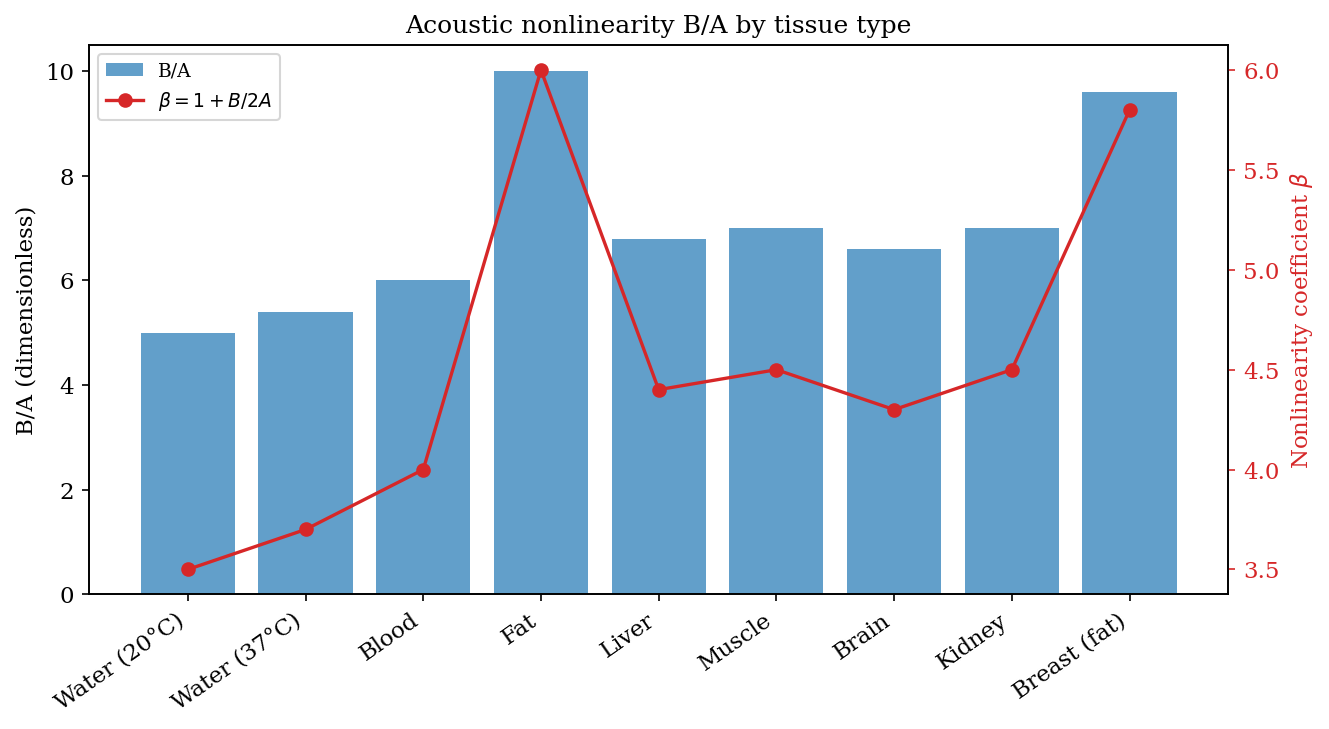
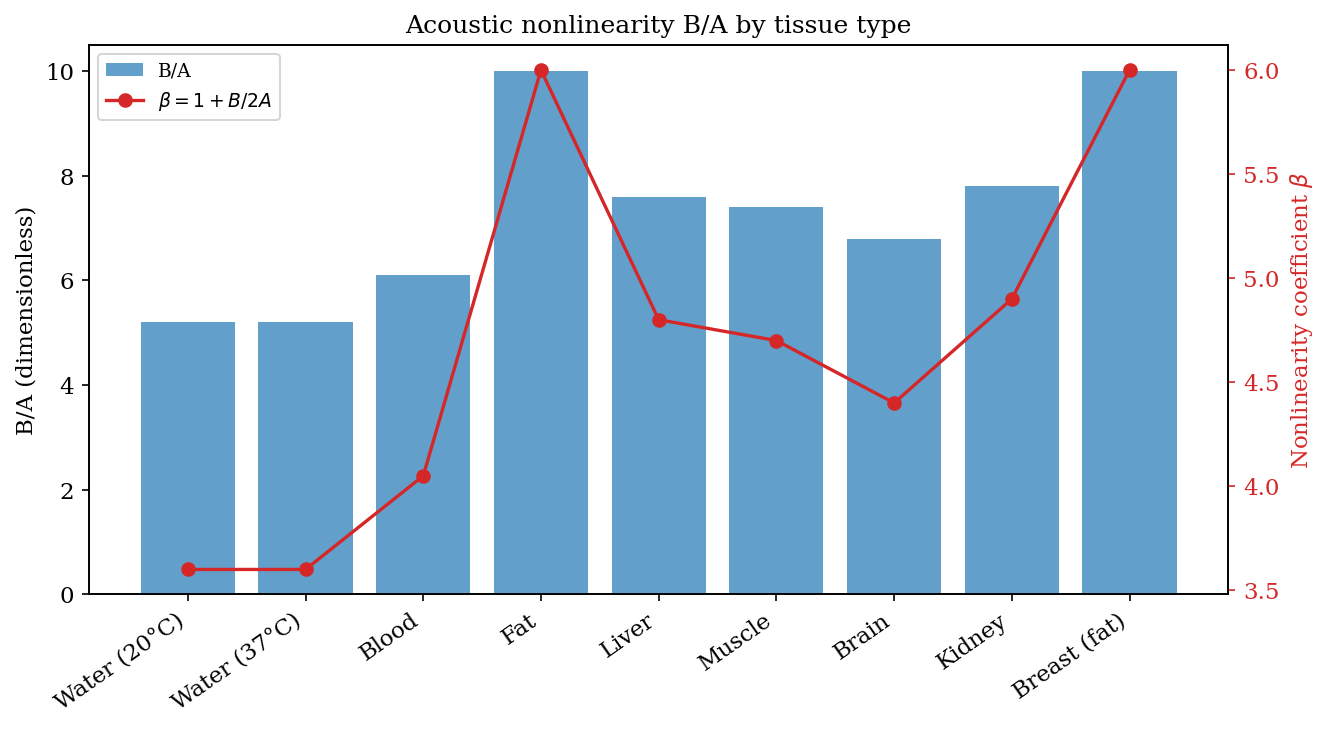
@ refactor(arch)!: extract kwavers-field from kwavers-domain
Numerical field definitions (component-index SSOT, field-type mapping,
operations/statistics, bubble/EM field states) become a standalone foundation
crate depending on kwavers-core/-grid. kwavers_domain::field::* ->
kwavers_field::* across the workspace. No re-export shim.

Step 4/12 of the kwavers-domain decomposition.

@

diff --git a/crates/kwavers-solver/src/forward/hybrid/mixed_domain.rs b/crates/kwavers-solver/src/forward/hybrid/mixed_domain.rs
@@ -232,12 +232,12 @@ impl kwavers_domain::plugin::Plugin for MixedDomainPropagationPlugin {
         self.state = state;
     }
 
-    fn required_fields(&self) -> Vec<kwavers_domain::field::mapping::UnifiedFieldType> {
-        vec![kwavers_domain::field::mapping::UnifiedFieldType::Pressure]
+    fn required_fields(&self) -> Vec<kwavers_field::mapping::UnifiedFieldType> {
+        vec![kwavers_field::mapping::UnifiedFieldType::Pressure]
     }
 
-    fn provided_fields(&self) -> Vec<kwavers_domain::field::mapping::UnifiedFieldType> {
-        vec![kwavers_domain::field::mapping::UnifiedFieldType::Pressure]
+    fn provided_fields(&self) -> Vec<kwavers_field::mapping::UnifiedFieldType> {
+        vec![kwavers_field::mapping::UnifiedFieldType::Pressure]
     }
 
     fn update(
@@ -249,7 +249,7 @@ impl kwavers_domain::plugin::Plugin for MixedDomainPropagationPlugin {
         _t: f64,
         _context: &mut kwavers_domain::plugin::PluginContext<'_>,
     ) -> KwaversResult<()> {
-        use kwavers_domain::field::mapping::UnifiedFieldType;
+        use kwavers_field::mapping::UnifiedFieldType;
 
         // Extract pressure field
         let pressure_field =

diff --git a/crates/kwavers-solver/src/forward/nonlinear/kzk_solver_plugin/plugin_impl.rs b/crates/kwavers-solver/src/forward/nonlinear/kzk_solver_plugin/plugin_impl.rs
@@ -21,12 +21,12 @@ impl kwavers_domain::plugin::Plugin for KzkSolverPlugin {
         self.state = state;
     }
 
-    fn required_fields(&self) -> Vec<kwavers_domain::field::mapping::UnifiedFieldType> {
-        vec![kwavers_domain::field::mapping::UnifiedFieldType::Pressure]
+    fn required_fields(&self) -> Vec<kwavers_field::mapping::UnifiedFieldType> {
+        vec![kwavers_field::mapping::UnifiedFieldType::Pressure]
     }
 
-    fn provided_fields(&self) -> Vec<kwavers_domain::field::mapping::UnifiedFieldType> {
-        vec![kwavers_domain::field::mapping::UnifiedFieldType::Pressure]
+    fn provided_fields(&self) -> Vec<kwavers_field::mapping::UnifiedFieldType> {
+        vec![kwavers_field::mapping::UnifiedFieldType::Pressure]
     }
 
     fn update(
@@ -38,7 +38,7 @@ impl kwavers_domain::plugin::Plugin for KzkSolverPlugin {
         _t: f64,
         _context: &mut kwavers_domain::plugin::PluginContext<'_>,
     ) -> KwaversResult<()> {
-        use kwavers_domain::field::mapping::UnifiedFieldType;
+        use kwavers_field::mapping::UnifiedFieldType;
 
         let pressure_field =
             fields.index_axis(ndarray::Axis(0), UnifiedFieldType::Pressure.index());

diff --git a/crates/kwavers-solver/src/forward/hybrid/solver/update.rs b/crates/kwavers-solver/src/forward/hybrid/solver/update.rs
@@ -30,7 +30,7 @@ impl HybridSolver {
             self.update_decomposition(fields, medium)?;
         }
 
-        use kwavers_domain::field::mapping::UnifiedFieldType;
+        use kwavers_field::mapping::UnifiedFieldType;
         let p_idx = UnifiedFieldType::Pressure.index();
         let vx_idx = UnifiedFieldType::VelocityX.index();
         let vy_idx = UnifiedFieldType::VelocityY.index();
@@ -169,7 +169,7 @@ impl HybridSolver {
         fields: &mut Array4<f64>,
         region: &DomainRegion,
     ) -> KwaversResult<()> {
-        use kwavers_domain::field::mapping::UnifiedFieldType;
+        use kwavers_field::mapping::UnifiedFieldType;
         let p_idx = UnifiedFieldType::Pressure.index();
         let vx_idx = UnifiedFieldType::VelocityX.index();
         let uy_idx = UnifiedFieldType::VelocityY.index();
@@ -262,7 +262,7 @@ impl HybridSolver {
     /// - Returns [`KwaversError::Validation`] if the precondition for a Validation-class constraint is violated.
     ///
     fn validate_solution(&mut self, fields: &Array4<f64>, _time: f64) -> KwaversResult<()> {
-        use kwavers_domain::field::mapping::UnifiedFieldType;
+        use kwavers_field::mapping::UnifiedFieldType;
 
         let pressure = fields.index_axis(ndarray::Axis(0), UnifiedFieldType::Pressure.index());
         let has_nan = pressure.iter().any(|&x| x.is_nan());
@@ -308,7 +308,7 @@ mod tests {
     use super::*;
     use kwavers_core::constants::fundamental::{DENSITY_WATER_NOMINAL, SOUND_SPEED_WATER_SIM};
     use kwavers_domain::boundary::{DomainPMLBoundary, DomainPmlConfig};
-    use kwavers_domain::field::mapping::UnifiedFieldType;
+    use kwavers_field::mapping::UnifiedFieldType;
     use kwavers_grid::Grid;
     use kwavers_domain::medium::HomogeneousMedium;
     use kwavers_signal::Signal;

diff --git a/crates/kwavers-domain/src/sensor/recorder/complex/recorder.rs b/crates/kwavers-domain/src/sensor/recorder/complex/recorder.rs
@@ -2,8 +2,8 @@
 
 use kwavers_core::error::KwaversResult;
 use kwavers_core::time::Time;
-use crate::field::indices::{BUBBLE_RADIUS_IDX, LIGHT_IDX, PRESSURE_IDX, TEMPERATURE_IDX};
-use crate::field::BubbleStateFields;
+use kwavers_field::indices::{BUBBLE_RADIUS_IDX, LIGHT_IDX, PRESSURE_IDX, TEMPERATURE_IDX};
+use kwavers_field::BubbleStateFields;
 use kwavers_grid::Grid;
 use crate::sensor::sonoluminescence::{SonoluminescenceDetector, SonoluminescenceEvent};
 use crate::sensor::GridSensorSet;

diff --git a/crates/kwavers-physics/src/acoustics/bubble_dynamics/bubble_field/core/accessors.rs b/crates/kwavers-physics/src/acoustics/bubble_dynamics/bubble_field/core/accessors.rs
@@ -3,9 +3,9 @@ use super::model::BubbleField;
 impl BubbleField {
     /// Get bubble state fields for physics modules.
     #[must_use]
-    pub fn get_state_fields(&self) -> kwavers_domain::field::BubbleStateFields {
+    pub fn get_state_fields(&self) -> kwavers_field::BubbleStateFields {
         let shape = self.grid_shape;
-        let mut fields = kwavers_domain::field::BubbleStateFields::new(shape);
+        let mut fields = kwavers_field::BubbleStateFields::new(shape);
 
         for ((i, j, k), state) in &self.bubbles {
             fields.radius[[*i, *j, *k]] = state.radius;

diff --git a/crates/kwavers-simulation/src/io/output.rs b/crates/kwavers-simulation/src/io/output.rs
@@ -1,7 +1,7 @@
 //! Simulation result output writers (CSV / pressure-field export / run summary).
 use kwavers_core::time::Time;
-use kwavers_domain::field::indices::LIGHT_IDX;
-use kwavers_domain::field::mapping::UnifiedFieldType;
+use kwavers_field::indices::LIGHT_IDX;
+use kwavers_field::mapping::UnifiedFieldType;
 use kwavers_domain::sensor::recorder::Recorder;
 use log::info;
 use ndarray::{Array3, Axis};

diff --git a/crates/kwavers-analysis/src/visualization/data_pipeline/transfer.rs b/crates/kwavers-analysis/src/visualization/data_pipeline/transfer.rs
@@ -2,7 +2,7 @@
 
 use super::{ProcessingOperation, ProcessingStage, TransferStatistics};
 use kwavers_core::error::{KwaversError, KwaversResult};
-use kwavers_domain::field::UnifiedFieldType;
+use kwavers_field::UnifiedFieldType;
 use log::{debug, info};
 use ndarray::Array3;
 use std::collections::hash_map::Entry;

diff --git a/crates/kwavers-analysis/src/visualization/engine/mod.rs b/crates/kwavers-analysis/src/visualization/engine/mod.rs
@@ -4,7 +4,7 @@
 
 use kwavers_core::constants::numerical::MHZ_TO_HZ;
 use kwavers_core::error::{KwaversError, KwaversResult};
-use kwavers_domain::field::UnifiedFieldType;
+use kwavers_field::UnifiedFieldType;
 use kwavers_grid::Grid;
 use log::{debug, info, warn};
 use ndarray::{Array3, Array4};

diff --git a/crates/kwavers-analysis/src/visualization/fallback/mod.rs b/crates/kwavers-analysis/src/visualization/fallback/mod.rs
@@ -3,7 +3,7 @@
 //! Provides CPU-based fallback rendering when GPU is not available.
 
 use kwavers_core::error::KwaversResult;
-use kwavers_domain::field::mapping::UnifiedFieldType;
+use kwavers_field::mapping::UnifiedFieldType;
 use kwavers_grid::Grid;
 use log::{info, warn};
 use ndarray::Array3;

diff --git a/crates/kwavers-analysis/src/visualization/mod.rs b/crates/kwavers-analysis/src/visualization/mod.rs
@@ -45,7 +45,7 @@ pub use engine::VisualizationEngine;
 pub use metrics::{MetricsTracker, VisualizationMetrics};
 
 // Re-export field types
-pub use kwavers_domain::field::mapping::UnifiedFieldType;
+pub use kwavers_field::mapping::UnifiedFieldType;
 
 // GPU-specific re-exports
 #[cfg(feature = "gpu-visualization")]

diff --git a/crates/kwavers-analysis/src/visualization/renderer/mod.rs b/crates/kwavers-analysis/src/visualization/renderer/mod.rs
@@ -16,7 +16,7 @@ pub use volume::VolumeRenderer;
 
 use crate::visualization::{RenderQuality, VisualizationConfig};
 use kwavers_core::error::KwaversResult;
-use kwavers_domain::field::UnifiedFieldType;
+use kwavers_field::UnifiedFieldType;
 use kwavers_grid::Grid;
 use ndarray::Array3;
 

diff --git a/crates/kwavers-analysis/src/visualization/renderer/volume.rs b/crates/kwavers-analysis/src/visualization/renderer/volume.rs
@@ -2,7 +2,7 @@
 
 use crate::visualization::{ColorScheme, VisualizationConfig};
 use kwavers_core::error::KwaversResult;
-use kwavers_domain::field::UnifiedFieldType;
+use kwavers_field::UnifiedFieldType;
 use kwavers_grid::Grid;
 use ndarray::Array3;
 